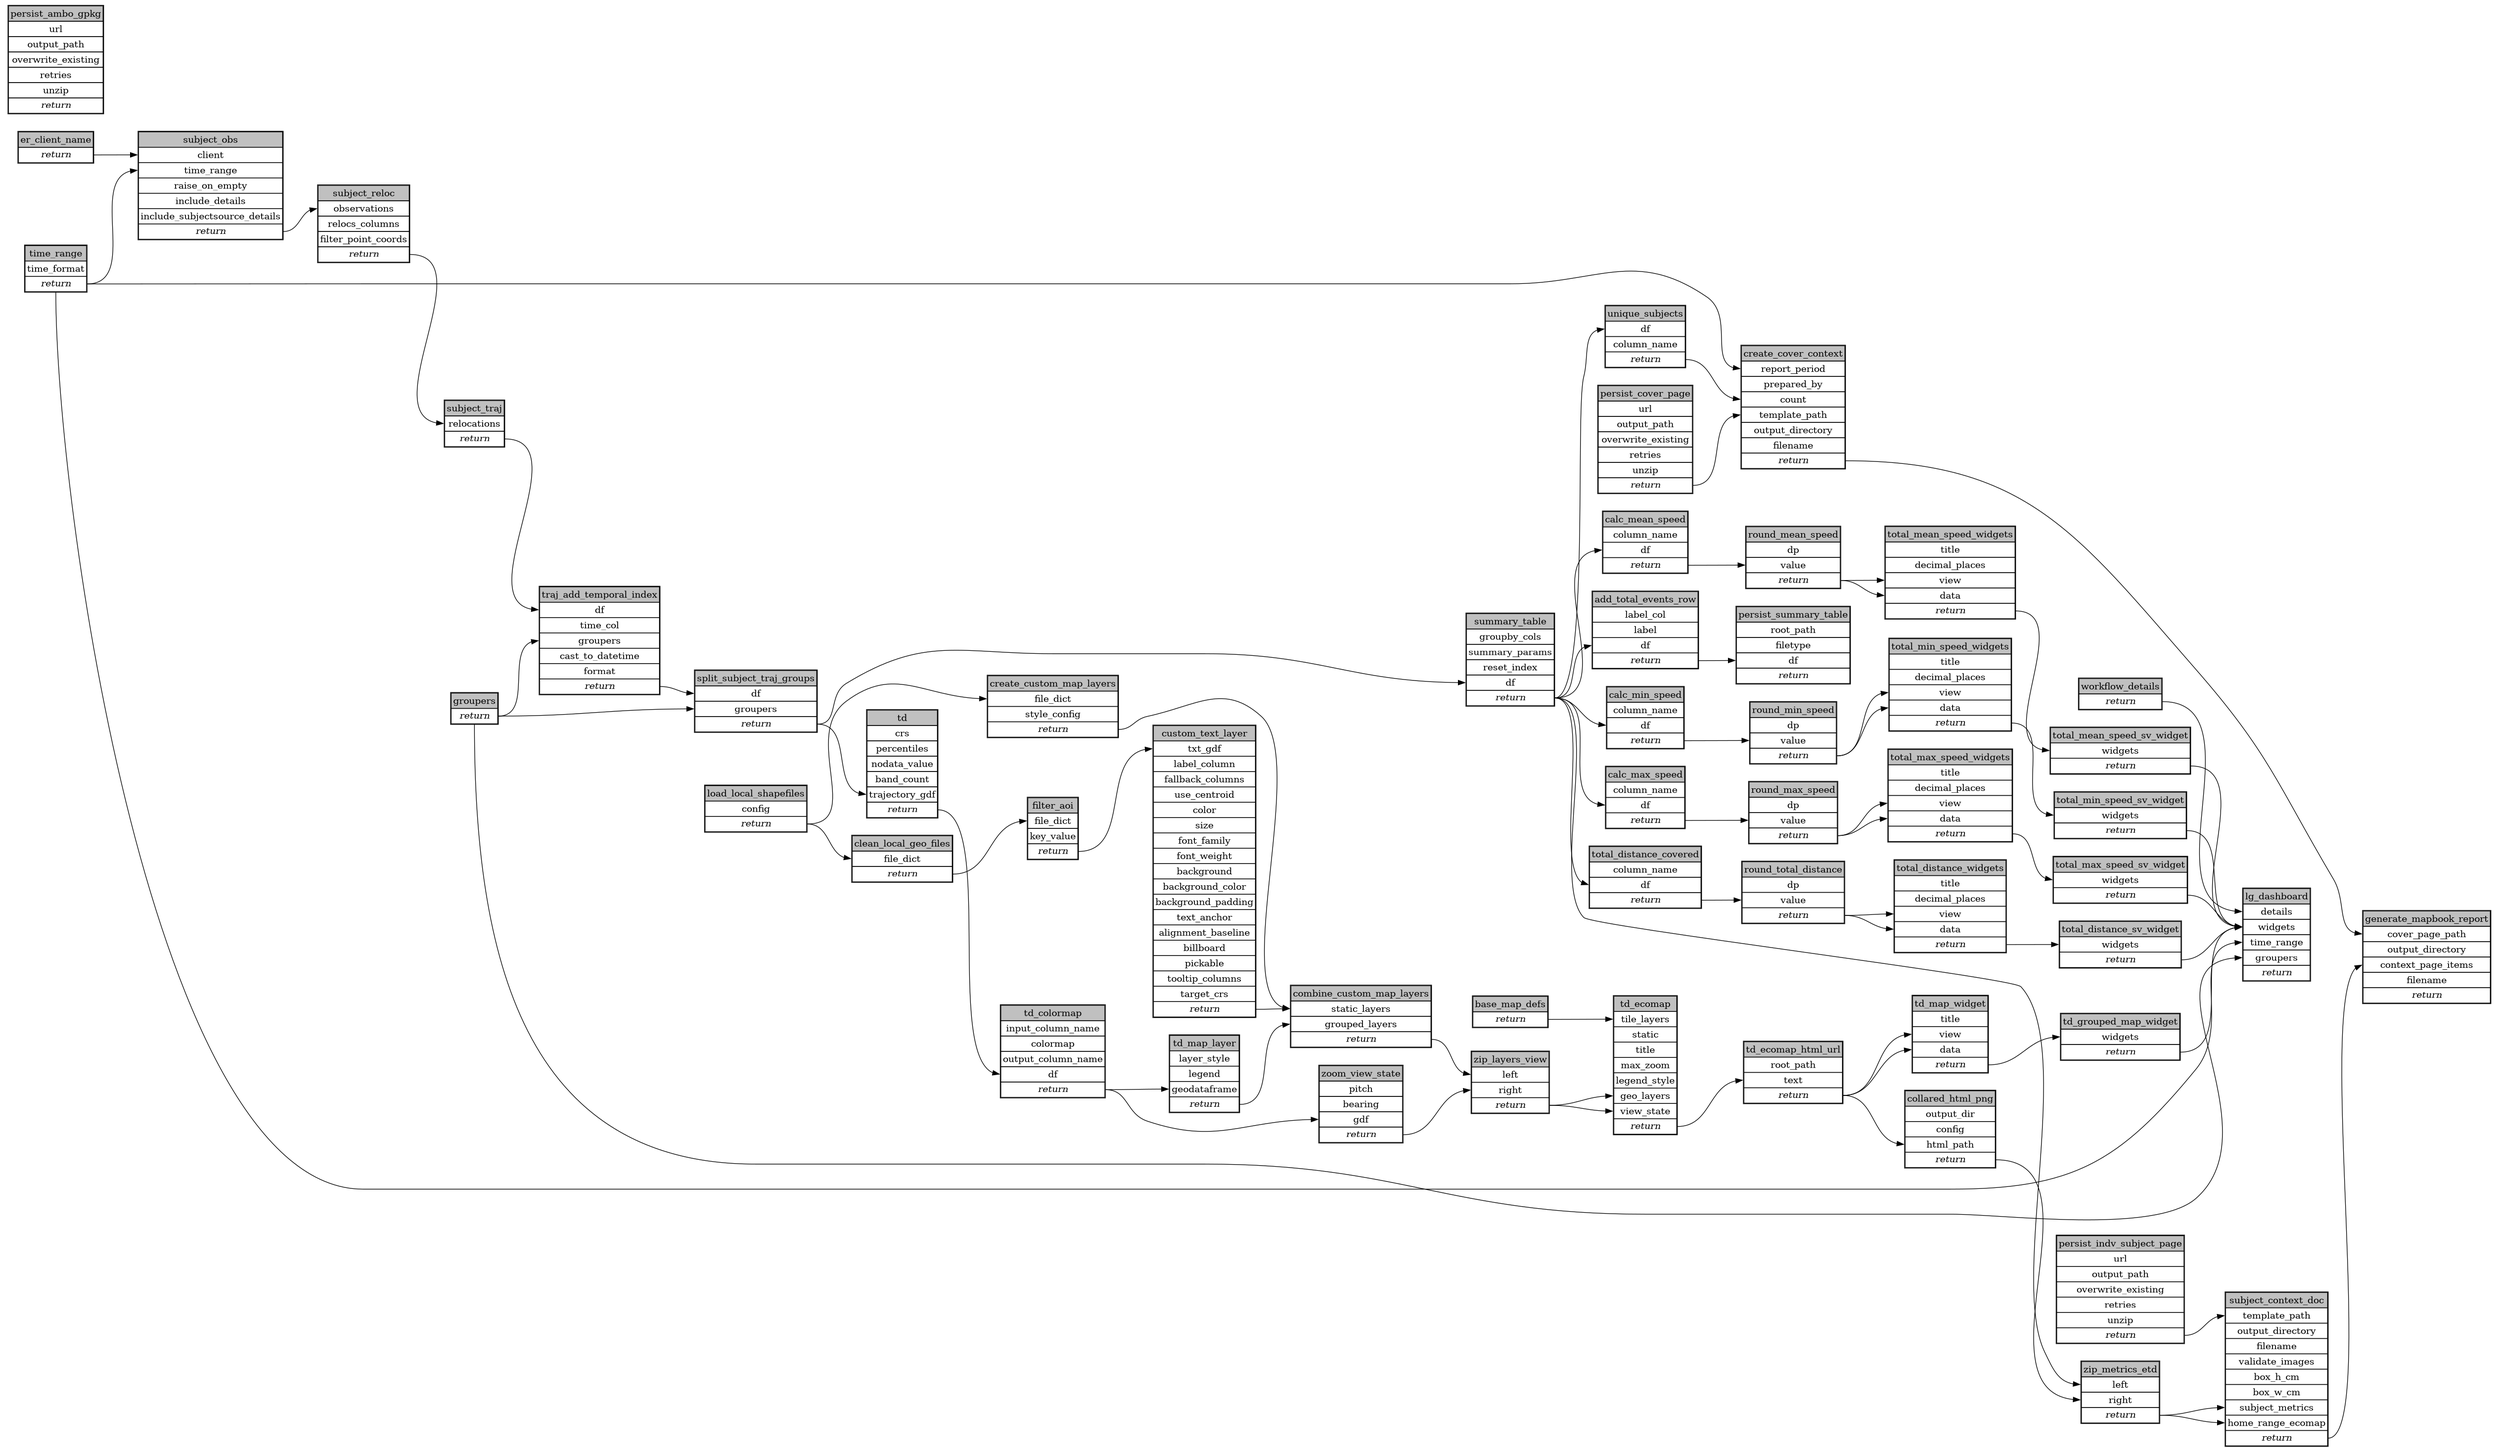
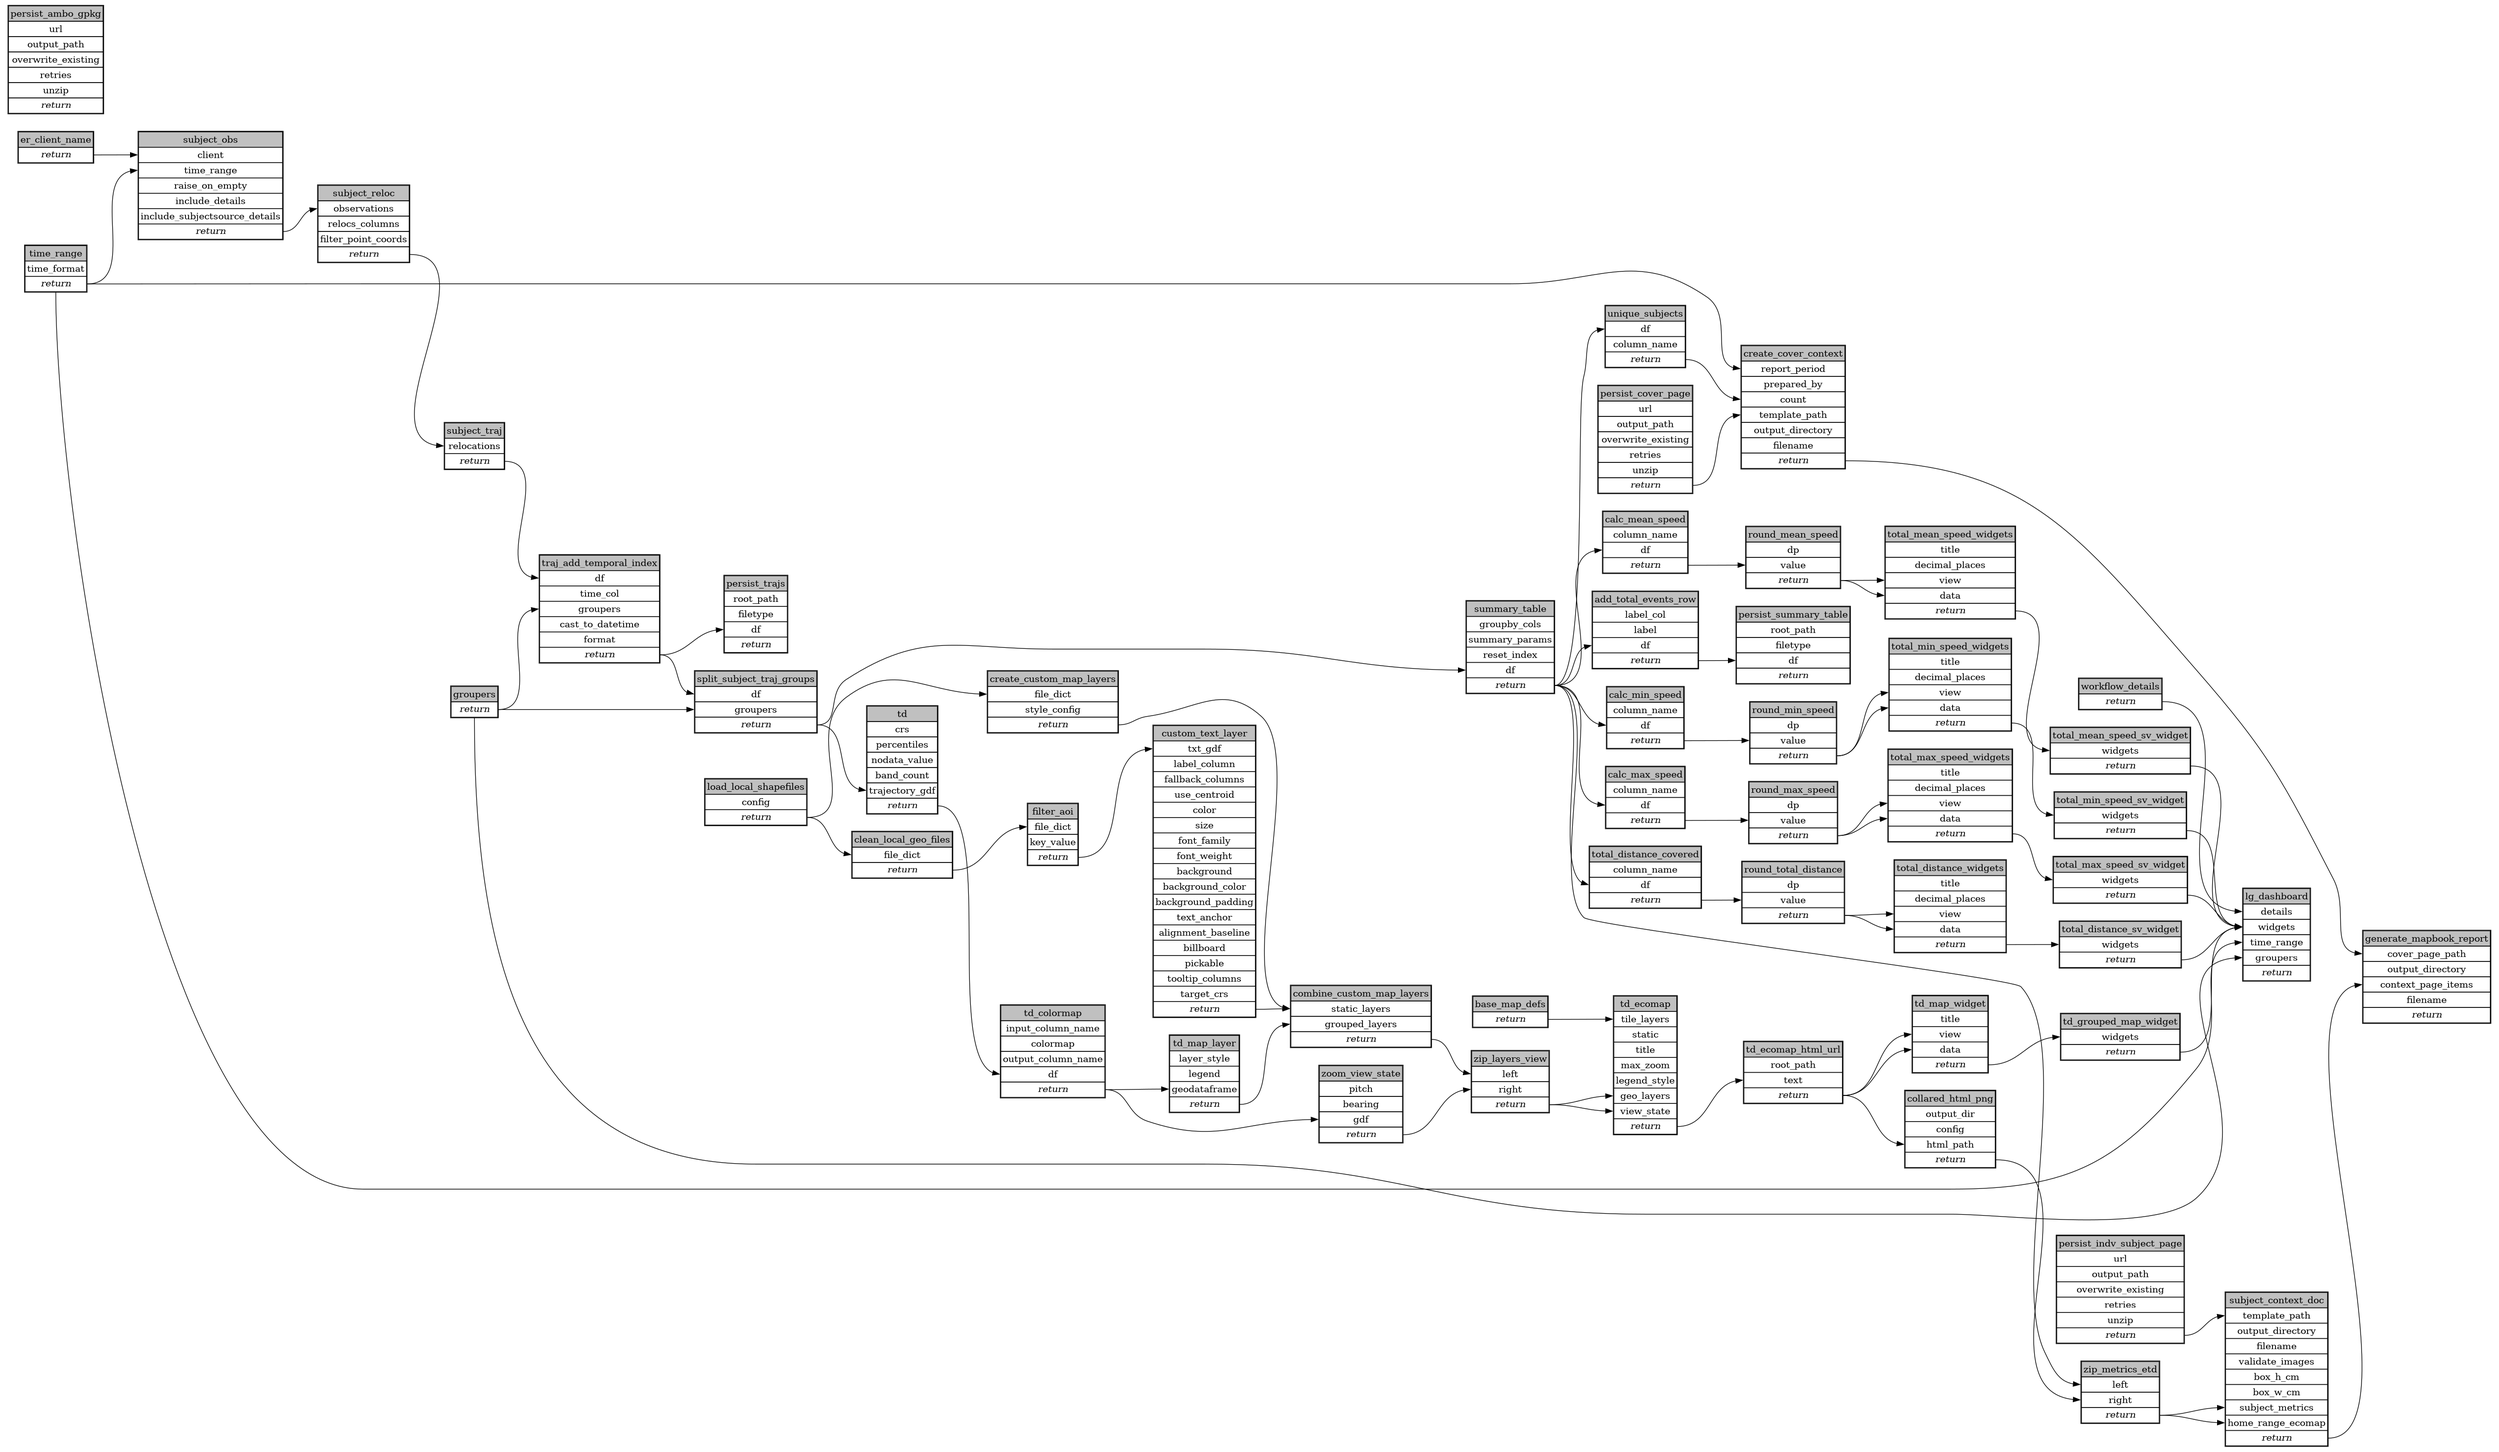
persist trajs as .gpkg

diff --git a/workflows/collared_lions_report/ecoscope-workflows-collared-lions-report-workflow/ecoscope_workflows_collared_lions_report_workflow/dags/run_async.py b/workflows/collared_lions_report/ecoscope-workflows-collared-lions-report-workflow/ecoscope_workflows_collared_lions_report_workflow/dags/run_async.py
@@ -81,6 +81,7 @@ def main(params: Params):
         "subject_reloc": ["subject_obs"],
         "subject_traj": ["subject_reloc"],
         "traj_add_temporal_index": ["subject_traj", "groupers"],
+        "persist_trajs": ["traj_add_temporal_index"],
         "split_subject_traj_groups": ["traj_add_temporal_index", "groupers"],
         "td": ["split_subject_traj_groups"],
         "td_colormap": ["td"],
@@ -394,6 +395,23 @@ def main(params: Params):
             }
             | (params_dict.get("traj_add_temporal_index") or {}),
             method="call",
+        ),
+        "persist_trajs": Node(
+            async_task=persist_df.validate()
+            .set_task_instance_id("persist_trajs")
+            .handle_errors()
+            .with_tracing()
+            .set_executor("lithops"),
+            partial={
+                "root_path": os.environ["ECOSCOPE_WORKFLOWS_RESULTS"],
+                "filetype": "gpkg",
+            }
+            | (params_dict.get("persist_trajs") or {}),
+            method="mapvalues",
+            kwargs={
+                "argnames": ["df"],
+                "argvalues": DependsOn("traj_add_temporal_index"),
+            },
         ),
         "split_subject_traj_groups": Node(
             async_task=split_groups.validate()

diff --git a/workflows/collared_lions_report/ecoscope-workflows-collared-lions-report-workflow/ecoscope_workflows_collared_lions_report_workflow/dags/run_async_mock_io.py b/workflows/collared_lions_report/ecoscope-workflows-collared-lions-report-workflow/ecoscope_workflows_collared_lions_report_workflow/dags/run_async_mock_io.py
@@ -99,6 +99,7 @@ def main(params: Params):
         "subject_reloc": ["subject_obs"],
         "subject_traj": ["subject_reloc"],
         "traj_add_temporal_index": ["subject_traj", "groupers"],
+        "persist_trajs": ["traj_add_temporal_index"],
         "split_subject_traj_groups": ["traj_add_temporal_index", "groupers"],
         "td": ["split_subject_traj_groups"],
         "td_colormap": ["td"],
@@ -412,6 +413,23 @@ def main(params: Params):
             }
             | (params_dict.get("traj_add_temporal_index") or {}),
             method="call",
+        ),
+        "persist_trajs": Node(
+            async_task=persist_df.validate()
+            .set_task_instance_id("persist_trajs")
+            .handle_errors()
+            .with_tracing()
+            .set_executor("lithops"),
+            partial={
+                "root_path": os.environ["ECOSCOPE_WORKFLOWS_RESULTS"],
+                "filetype": "gpkg",
+            }
+            | (params_dict.get("persist_trajs") or {}),
+            method="mapvalues",
+            kwargs={
+                "argnames": ["df"],
+                "argvalues": DependsOn("traj_add_temporal_index"),
+            },
         ),
         "split_subject_traj_groups": Node(
             async_task=split_groups.validate()

diff --git a/workflows/collared_lions_report/ecoscope-workflows-collared-lions-report-workflow/ecoscope_workflows_collared_lions_report_workflow/dags/run_sequential.py b/workflows/collared_lions_report/ecoscope-workflows-collared-lions-report-workflow/ecoscope_workflows_collared_lions_report_workflow/dags/run_sequential.py
@@ -314,6 +314,19 @@ def main(params: Params):
         .call()
     )
 
+    persist_trajs = (
+        persist_df.validate()
+        .set_task_instance_id("persist_trajs")
+        .handle_errors()
+        .with_tracing()
+        .partial(
+            root_path=os.environ["ECOSCOPE_WORKFLOWS_RESULTS"],
+            filetype="gpkg",
+            **(params_dict.get("persist_trajs") or {}),
+        )
+        .mapvalues(argnames=["df"], argvalues=traj_add_temporal_index)
+    )
+
     split_subject_traj_groups = (
         split_groups.validate()
         .set_task_instance_id("split_subject_traj_groups")

diff --git a/workflows/collared_lions_report/ecoscope-workflows-collared-lions-report-workflow/ecoscope_workflows_collared_lions_report_workflow/dags/run_sequential_mock_io.py b/workflows/collared_lions_report/ecoscope-workflows-collared-lions-report-workflow/ecoscope_workflows_collared_lions_report_workflow/dags/run_sequential_mock_io.py
@@ -332,6 +332,19 @@ def main(params: Params):
         .call()
     )
 
+    persist_trajs = (
+        persist_df.validate()
+        .set_task_instance_id("persist_trajs")
+        .handle_errors()
+        .with_tracing()
+        .partial(
+            root_path=os.environ["ECOSCOPE_WORKFLOWS_RESULTS"],
+            filetype="gpkg",
+            **(params_dict.get("persist_trajs") or {}),
+        )
+        .mapvalues(argnames=["df"], argvalues=traj_add_temporal_index)
+    )
+
     split_subject_traj_groups = (
         split_groups.validate()
         .set_task_instance_id("split_subject_traj_groups")

diff --git a/workflows/collared_lions_report/ecoscope-workflows-collared-lions-report-workflow/ecoscope_workflows_collared_lions_report_workflow/dags/jupytext.py b/workflows/collared_lions_report/ecoscope-workflows-collared-lions-report-workflow/ecoscope_workflows_collared_lions_report_workflow/dags/jupytext.py
@@ -536,6 +536,33 @@ traj_add_temporal_index = (
 
 
 # %% [markdown]
+# ## Persist trajectories
+
+# %%
+# parameters
+
+persist_trajs_params = dict(
+    filename=...,
+)
+
+# %%
+# call the task
+
+
+persist_trajs = (
+    persist_df.set_task_instance_id("persist_trajs")
+    .handle_errors()
+    .with_tracing()
+    .partial(
+        root_path=os.environ["ECOSCOPE_WORKFLOWS_RESULTS"],
+        filetype="gpkg",
+        **persist_trajs_params,
+    )
+    .mapvalues(argnames=["df"], argvalues=traj_add_temporal_index)
+)
+
+
+# %% [markdown]
 # ## Split Subject Trajectories by Group
 
 # %%

diff --git a/workflows/collared_lions_report/ecoscope-workflows-collared-lions-report-workflow/README.md b/workflows/collared_lions_report/ecoscope-workflows-collared-lions-report-workflow/README.md
@@ -5,8 +5,8 @@
 
 ```yaml
 # fingerprint:
-artifacts_sha256_basic: a08c75cbeefced40432ff296b38accc98a910309fe816c57d9cdca664e65eb2e
-artifacts_sha256_strict: 31964e9d70353b835d65d020eb32491e190d1fece216b28e8d768d667471b3ae
+artifacts_sha256_basic: 3a5d9ac2fbd068425e59f36916978578b2064f0a0365373853d5ed21760775c6
+artifacts_sha256_strict: 787438794b1012f2cab151469a178bbf38bab68f671960102d930fec86b2e293
 installed_requirements:
 - channel: https://repo.prefix.dev/ecoscope-workflows/
   name: ecoscope-workflows-core
@@ -19,9 +19,9 @@ installed_requirements:
   version: {version: ==0.0.6}
 - channel: file:///tmp/ecoscope-workflows-custom/release/artifacts/
   name: ecoscope-workflows-ext-lion-guardians
-  version: {version: ==10000.dev52+gfd269e45a.d20251111}
+  version: {version: ==10000.dev53+g121c13a5e.d20251111}
 params_sha256: 51f52a72f7e40089d38b1bbd368b228a1e67b2d650651812593e6125fbf22cf0
-spec_sha256: c9f89f455c683fba05e072189c7bb58088821c2844e67ab47810ba2e35db44d3
+spec_sha256: 9e89f6b3bd9d809a4eb8e34d57ca864265da91f0fa01f1f808bc3654da929e55
 
 ```
 
